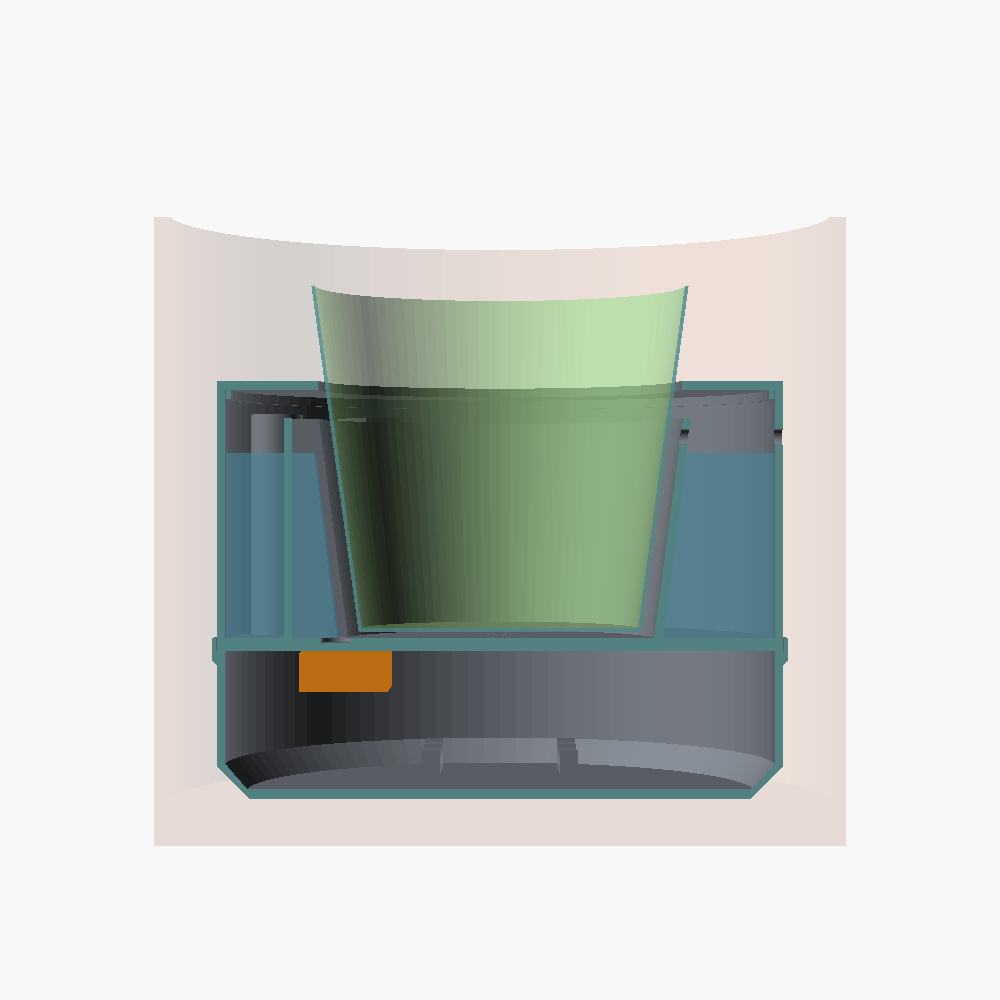
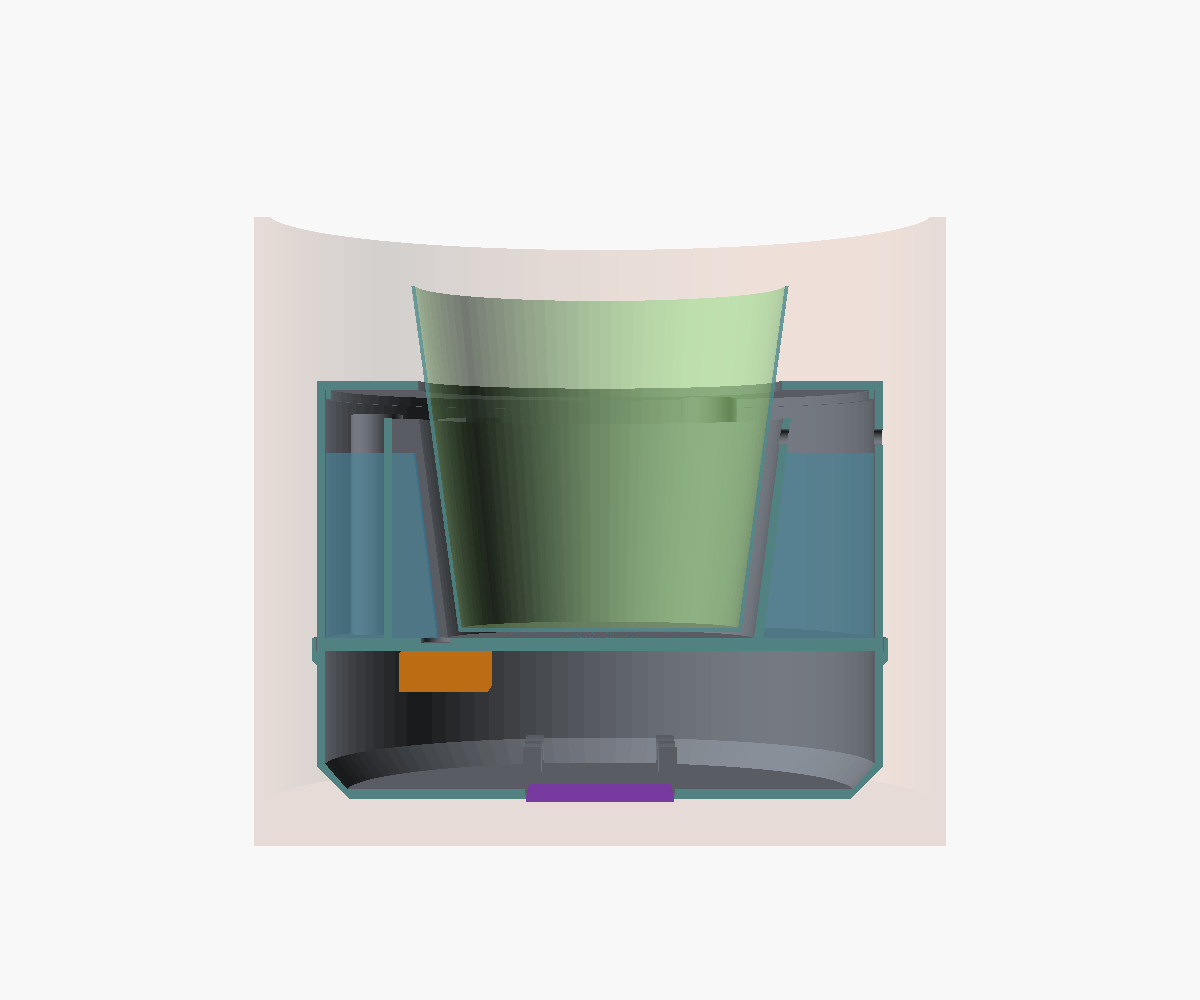
feat(cad): plads til ladning — USB-C ved kanten + Qi i bunden (ADR 013)
Orkide:
- Egen tør USB-C-skakt ved 60° op gennem ring-låget (hun-enden flugter
  med låget); et stik under låget ville nå vandet. Lager nu ~880 ml
- Qi-lomme midt i bay-gulvet (1,2mm gulv); batterivuggen flyttet ud
  (cradle_y 52) → ~14mm fra spole til celler

pot/:
- USB-C-lomme uden på reservoiret ved 0° under et hak i flangen; kablet
  ned til et Ø14-hul i ebase (han-stikket skal igennem)
- Qi-lomme i ebase-lid'et på -y (M/L/CUSTOM; S advarer)

Begge: Qi → 1N5819 → XIAO 5V-pin. Pogo fravalgt (blottede kontakter i en
våd pyntepotte). BOM pos 31 opdateret, nye pos 44-46. Alle dele manifold,
ingen kollisioner (orkide + pot/ M/CUSTOM).

Changed region(s): [[0.589, 0.217, 0.868, 0.868], [0.155, 0.217, 0.434, 0.868], [0.434, 0.744, 0.589, 0.806]]

diff --git a/docs/decisions/013-battery-1s2p.md b/docs/decisions/013-battery-1s2p.md
@@ -30,7 +30,8 @@ Fakta:
 ladet af XIAO'ens indbyggede lader.**
 
 ```
-  USB-C (5V) ─→ XIAO ESP32-C6 ─(BAT-pads)─→ beskyttelsesprint ─→ 2× 18650
+  USB-C ved kanten ─────────────→ XIAO USB-C ┐
+  Qi-modtager 5V ──→ Schottky ──→ XIAO 5V-pin ┴→ lader ─(BAT)─→ beskyttelsesprint ─→ 2× 18650
                     │
      BAT+ ──────────┼─→ switch A (P-FET) ─→ boost 12V ─→ pumpe (pot/)
                     │                                └→ H-bro → pumpe (orkide)
@@ -110,13 +111,44 @@ Antagelser: boost 85% effektivitet, sensorer slukket mellem målinger,
 - Li-ion i en lukket boks: brug celler med BMS (over-/underspænding,
   kortslutning)
 
-### Åbne beslutninger
-- **Ladestik-placering (brugeren vil tage stilling senere):** USB-C i
-  bunden, forlænger til kanten, eller **pogo-pins + 3D-printet ladebase**
-  (v2-idé): tårnet løftes ud af pyntepotten og sættes på basen. Pogo-
-  pladerne skal kun føre ladespænding (5V via diode), aldrig batteriet
-  direkte, så de er ufarlige hvis de står i en pyt. Magneter til
-  justering. Afklares før bay/ebase-bunden låses.
+### Ladning: USB-C ved kanten + Qi i bunden (besluttet 2026-10-21)
+
+Brugeren skal kunne vælge: kabel i toppen (uden at løfte noget) eller sætte
+tårnet på en lader.
+
+- **USB-C ved kanten:** hun-enden af en USB-C-forlænger, lukket med en
+  silikone-støvprop. Han-enden sidder i XIAO'ens USB-C → også programmering
+  fra toppen.
+  - pot/: lomme uden på reservoiret ved 0° under et hak i flangen; kablet
+    går udvendigt ned til et Ø14-hul i ebase (split-grommet).
+  - Orkide: egen tør skakt i tanken ved 60°, op gennem ring-låget. Et stik
+    der hang ned under låget ville nå vandet (kun ~15mm luft over max).
+- **Qi i bunden:** modtager-spole (~46×36mm) i en lomme med 1,2mm gulv;
+  output via Schottky (1N5819) til XIAO'ens 5V-pin, så begge kilder kan
+  sidde samtidig.
+  - Orkide: midt i bay-gulvet → kan stå på en hvilken som helst Qi-lader.
+    Batterivuggen er flyttet ud (cradle_y 52), så der er ~14mm fra spolen
+    til cellernes stålkapper.
+  - pot/: på -y i ebase-lid'et (pumpen sidder i midten) → laderen skal
+    placeres under den side. Passer i M/L/CUSTOM, ikke S. Kan ikke bruges
+    med load cell-platformen, og en tung Monstera løftes ikke gerne op hvert
+    kvartal → USB-C er den primære i pot/.
+- **Pogo-pins fravalgt:** blottede kontakter under et tårn, der står i en
+  pyntepotte, hvor overløbsvand samles. Qi har ingen kontakter og virker med
+  eksisterende ladere.
+- TODO: printet ladebase der centrerer tårnet over en Qi-lader (orkidens 45°-
+  fas kan sidde i et konisk sæde).
+
+### Hurtigere ladning (option — ikke besluttet)
+
+XIAO'ens lader giver 100 mA
+([Seeed wiki](https://wiki.seeedstudio.com/xiao_esp32c6_getting_started/))
+→ ~3 døgn for 2× 3500 mAh. Med et separat TP4056-modul (USB-C, med
+beskyttelse) bestemmes strømmen af R_PROG: I = 1200 / R_PROG → 1,2kΩ = 1A,
+2kΩ = 580 mA. Ved 580 mA: ~12-14 timer. Modulet erstatter beskyttelses-
+printet (pos 37), forlængeren sættes i modulets USB-C i stedet for XIAO'ens,
+og Qi-dioden går til modulets IN+. TP4056 er lineær: (5V − Vbat) × I bliver
+til varme (~0,8W ved 580 mA) i den lukkede bay.
 
 ## Implementation notes
 - BOM: pot/hardware/bom.csv (batteri-rækker) + pot-orchid/preliminary-bom.md

diff --git a/pot-orchid/design-notes.md b/pot-orchid/design-notes.md
@@ -19,11 +19,12 @@ holder de åbne punkter.
 | Potte | Planten bliver i sin 12cm dyrkningspotte |
 | Placering | I pyntepotte (indv. Ø210, maks. potte Ø190) → opak PETG |
 | Soak-dybde | Mekanisk: skålens kant (68mm over pottens bund) |
-| Lager | Ring rundt om skålen (~900 ml) |
+| Lager | Ring rundt om skålen (~880 ml) |
 | Pumpe | Kamoer NKP-DC-S10B, vendbar via H-bro (~5 min hver vej) |
 | Trigger | Interval (7 dage) justeret med VPD |
 | Sensorer | XKC berøringsfri under skålen, 2 mini-floats i ringen, AHT20 |
 | Strøm | 1S2P 18650 (ADR 013) |
+| Ladning | USB-C i toppen (skakt ved 60°) + Qi midt i bunden |
 | Lys til rødderne / grow-light | Nej — vokselys kræver konstant strøm (v2 med kabel, hvis ønsket) |
 
 ## Kildegrundlag
@@ -52,9 +53,13 @@ holder de åbne punkter.
 ### Mekanik
 - [ ] **Pumpe-mount i bay'en:** kræver NKP'ens faktiske mål (forhandler:
       ~67×55×41mm). `bay_h = 47` er sat efter den.
-- [ ] **Ladestik — afventer brugerens beslutning (ADR 013):** USB-C i
-      bay-siden, forlænger til kanten, eller pogo-pins + ladebase (v2).
-      Bay-bunden låses ikke før det er afklaret.
+- [x] **Ladning (ADR 013, besluttet 2026-10-21):** USB-C-hun-ende i toppen
+      af en tør skakt ved 60° (flugter med ring-låget) + Qi-spole i en lomme
+      midt i bay-gulvet. Pogo fravalgt (blottede kontakter i en våd pyntepotte).
+- [ ] **Ladebase:** printet konisk sæde, der centrerer bay'ens 45°-fas over
+      en almindelig Qi-lader.
+- [ ] **USB-C-forlængerens hun-ende:** mål overmolden (`usbc_body_*`) — slidsen
+      i skaktens top er sat til 12,5×6,5mm + tolerance. Limes nedefra.
 - [ ] **Stænk-hætte** på skaktens top: åbning ned til elektronikken
       (under ring-låget, men påfyldning sker 110° derfra).
 - [ ] **Sump-si:** net over slange A's ende, så bark-smuld ikke når pumpen.
@@ -66,8 +71,8 @@ holder de åbne punkter.
       sump (datablad: op til ~20mm ikke-metal). Limes eller klipses op.
 
 ### Elektronik / firmware
-- [ ] H-bro DRV8871: IN1 = D10, IN2 = D1. Batteri-ADC på D0, sensor-strøm D8
-      (ADR 013).
+- [ ] H-bro DRV8871: IN1 = D10, IN2 = D1. Batteri-ADC på D0, boost-switch D8
+      (ADR 013). Qi-modtager → 1N5819 → XIAO 5V-pin.
 - [ ] `soak_cycle.cpp`: IDLE → FILL (fast tid + margin; overskud løber
       tilbage) → SOAK → DRAIN (til "skål tom" + efterløb) → VERIFY.
       Skålen skal være tom inden timeout, ellers alarm (buzzer + HomeKit) —

diff --git a/docs/assembly-guide.md b/docs/assembly-guide.md
@@ -19,7 +19,7 @@ og [ADR 010](decisions/010-scalloped-cup-channels.md)). Cuppen har 3
 service-kanaler i kanten; reservoir-væggens strip-ribber passer kun i den
 brede refill-kanal, så cuppen kan kun sænkes ned i én rotation:
 
-- **0°**: USB-C gland i ebase
+- **0°**: USB-C-lomme uden på reservoiret under et hak i flangen; USB-C-gennemføring (Ø14) i ebase
 - **90°**: KABEL-KANAL i cuppen, float-klips i bunden, kabel-gland i ebase
 - **180°**: SLANGE-KANAL i cuppen (dyse-hul øverst i kanal-fladen), M16-gland i ebase
 - **270°**: REFILL-KANAL i cuppen, water-strip mellem guide-ribberne på
@@ -27,14 +27,15 @@ brede refill-kanal, så cuppen kan kun sænkes ned i én rotation:
 
 ## Samling (rækkefølge)
 
-1. **Electronics base**: montér XIAO, switch-board, boost og batteriet (2× 18650 i vuggen på lid'et, ADR 013). Pumpen skrues på lid'ets bosses (Kamoer på 46mm-hullerne / BP7 på 24mm-kvadratet). Skru lid på med 4× M3.
-2. **Glands**: M12 ved 0° (USB-C) og 90° (sensor-kabler), M16 ved 180° (slanger).
+1. **Electronics base**: montér XIAO, switch-board, boost og batteriet (2× 18650 i vuggen på lid'et, ADR 013). Qi-modtagerens spole limes i lommen i lid'et (ferrit-siden opad). Pumpen skrues på lid'ets bosses (Kamoer på 46mm-hullerne / BP7 på 24mm-kvadratet). Skru lid på med 4× M3.
+2. **Glands**: USB-C-forlængerens han-stik ind gennem Ø14-hullet ved 0° (tætnes med split-grommet/silikone), M12 ved 90° (sensor-kabler), M16 ved 180° (slanger).
 3. **Reservoir** placeres oven på ebase med EPDM/O-ring i gasket-grooven.
 4. **Float switch** klipses i ringen ved 90°; kablet føres op ad kabel-kanalen.
 5. **Water-strip** skubbes ned mellem guide-ribberne ved 270° (i refill-kanalen); kabel op ad samme kanal og over i kabel-kanalen via flangen.
 6. **Sugeslange**: én ende med lille vægt/sinker ned i vand-zonen (gennem slange-kanalen), anden ende op ad kanalen → udvendigt ned → M16 → pumpe-indgang.
 7. **Trykslange**: fra pumpe-udgang → M16 → op udvendigt → ned i slange-kanalen → ind i dyse-hullet øverst i kanal-fladen.
 8. **Kabler** (soil, strip, float): op ad kabel-kanalen (90°) → ned udvendigt → M12 ved 90°.
+9. **USB-C hun-ende**: trykkes ned i lommen ved 0° (kablet i slidsen forneden) → stikket flugter med rimmen og nås gennem hakket i flangen. Sæt støvproppen i.
 
 ## LECA-lag (VIGTIGT — beskytter mod vandlogging)
 

diff --git a/docs/research/kicad-round-pcb.md b/docs/research/kicad-round-pcb.md
@@ -65,7 +65,7 @@ Vi har adgang til `circuit-synth` (Python → KiCad skematik/netlist/PCB). Det m
 | Lag | 2-lags (rigeligt til vores lavfrekvente design) |
 | MCU | XIAO ESP32-C6 castellated direct-mount (lodde-pads på PCB) |
 | Konnektorer | JST-XH langs kanten (soil, water strip, float, HX711, AHT20, buzzer, pumpe) |
-| Power | 1S Li-ion (ADR 013): beskyttelses-IC, boost 12V og to P-FET-switches on-board; evt. pogo-pads til ladebase |
+| Power | 1S Li-ion (ADR 013): beskyttelses-IC, boost 12V og to P-FET-switches on-board; Qi-modtager-input + USB-C via Schottky-OR |
 | Mounting | 4× M3-huller matchende electronics_base bosses |
 | Antenne-hensyn | XIAO's antenne skal vende mod kammerets kant, fri for kobber-plane under |
 

diff --git a/pot-orchid/preliminary-bom.md b/pot-orchid/preliminary-bom.md
@@ -8,9 +8,9 @@ anderledes. Pos-numre henviser til pot/-BOM'en.
 
 XIAO ESP32-C6 (1), silikoneslange (3), flyback-diode (5), USB-C-lader (14),
 knap (16), JST-kit (17), stripboard (18), silikone-ledning (19), M3-inserts/
--bolte (20, 21), PETG (24), AHT20 (27), buzzer (28), USB-C panel-mount (31 —
-afventer ladestik-beslutningen), PLA til testprint (33), hele batteridelen
-(36-43, dog kun ét switch-kredsløb — se nedenfor).
+-bolte (20, 21), PETG (24), AHT20 (27), buzzer (28), USB-C-forlænger (31 —
+0,3m er nok), PLA til testprint (33), hele batteridelen (36-43, dog kun ét
+switch-kredsløb — se nedenfor), Qi-modtager + lader + støvprop (44-46).
 
 ## Ændret
 

diff --git a/pot-orchid/README.md b/pot-orchid/README.md
@@ -34,9 +34,10 @@ automatisk. Hele tårnet står skjult i en pyntepotte.
 | Pyntepotte | indv. Ø210 / maks. potte Ø190 / ~185mm indv. højde |
 | Soak-dybde | 68mm over pottens bund (~62% af potten) |
 | Soak-volumen | ~376 ml |
-| Lager-ring | ~900 ml (~520 ml reserve ≈ 3-5 uger) |
+| Lager-ring | ~880 ml (~500 ml reserve ≈ 3-5 uger) |
 | Fyld / dræn | ~5 min hver vej (Kamoer NKP, ~75 ml/min) |
 | Strøm | 2× 18650 (1S2P), ~2,5-4 mdr. pr. opladning (estimat) |
+| Ladning | USB-C i ring-låget, eller stil tårnet på en Qi-lader |
 | Filament | ~600g opak PETG |
 
 Påfyldning: gennem hullet i ring-låget, eller løft planten og hæld i

diff --git a/pot/hardware/breadboard/wiring-diagram.md b/pot/hardware/breadboard/wiring-diagram.md
@@ -47,7 +47,10 @@ Total brugbare GPIO: 11
 ## Power rails (batteri — ADR 013)
 
 ```
-USB-C 5V ──→ XIAO ESP32-C6 (indbygget Li-ion-lader, BAT+/BAT- pads)
+USB-C-forlænger (kanten) ───────────────────→ XIAO USB-C ──┐
+Qi-modtager 5V ──→ 1N5819 (katode mod XIAO) ──→ XIAO 5V-pin ─┤
+                                                            ↓
+              XIAO ESP32-C6 (indbygget Li-ion-lader, 100 mA, BAT+/BAT- pads)
                  │
               1S-beskyttelsesprint (DW01A + FS8205A)
                  │

diff --git a/docs/decisions/012-orchid-v1-nursery-pot-ring-tank.md b/docs/decisions/012-orchid-v1-nursery-pot-ring-tank.md
@@ -107,7 +107,8 @@ luft, længere i kølig/fugtig. Intervallet kan ændres i HomeKit.
 
 - CAD: `pot-orchid/cad/source/` — `params.scad`, `tank.scad`, `lid.scad`,
   `bay.scad`, `assembly.scad` (views iso | section | soaking | top | exploded)
-- Beregnet: soak ~376 ml, lager ~900 ml (reserve ~520 ml ≈ 3-5 uger),
+- Beregnet: soak ~376 ml, lager ~880 ml efter USB-C-skakten (ADR 013)
+  (reserve ~500 ml ≈ 3-5 uger),
   fyld/dræn ~5 min, højde til låg 133mm, pottens top 163mm
 - Verificeret: alle dele manifold; potte, låg, tank og bay kolliderer ikke;
   intet uden for Ø190
